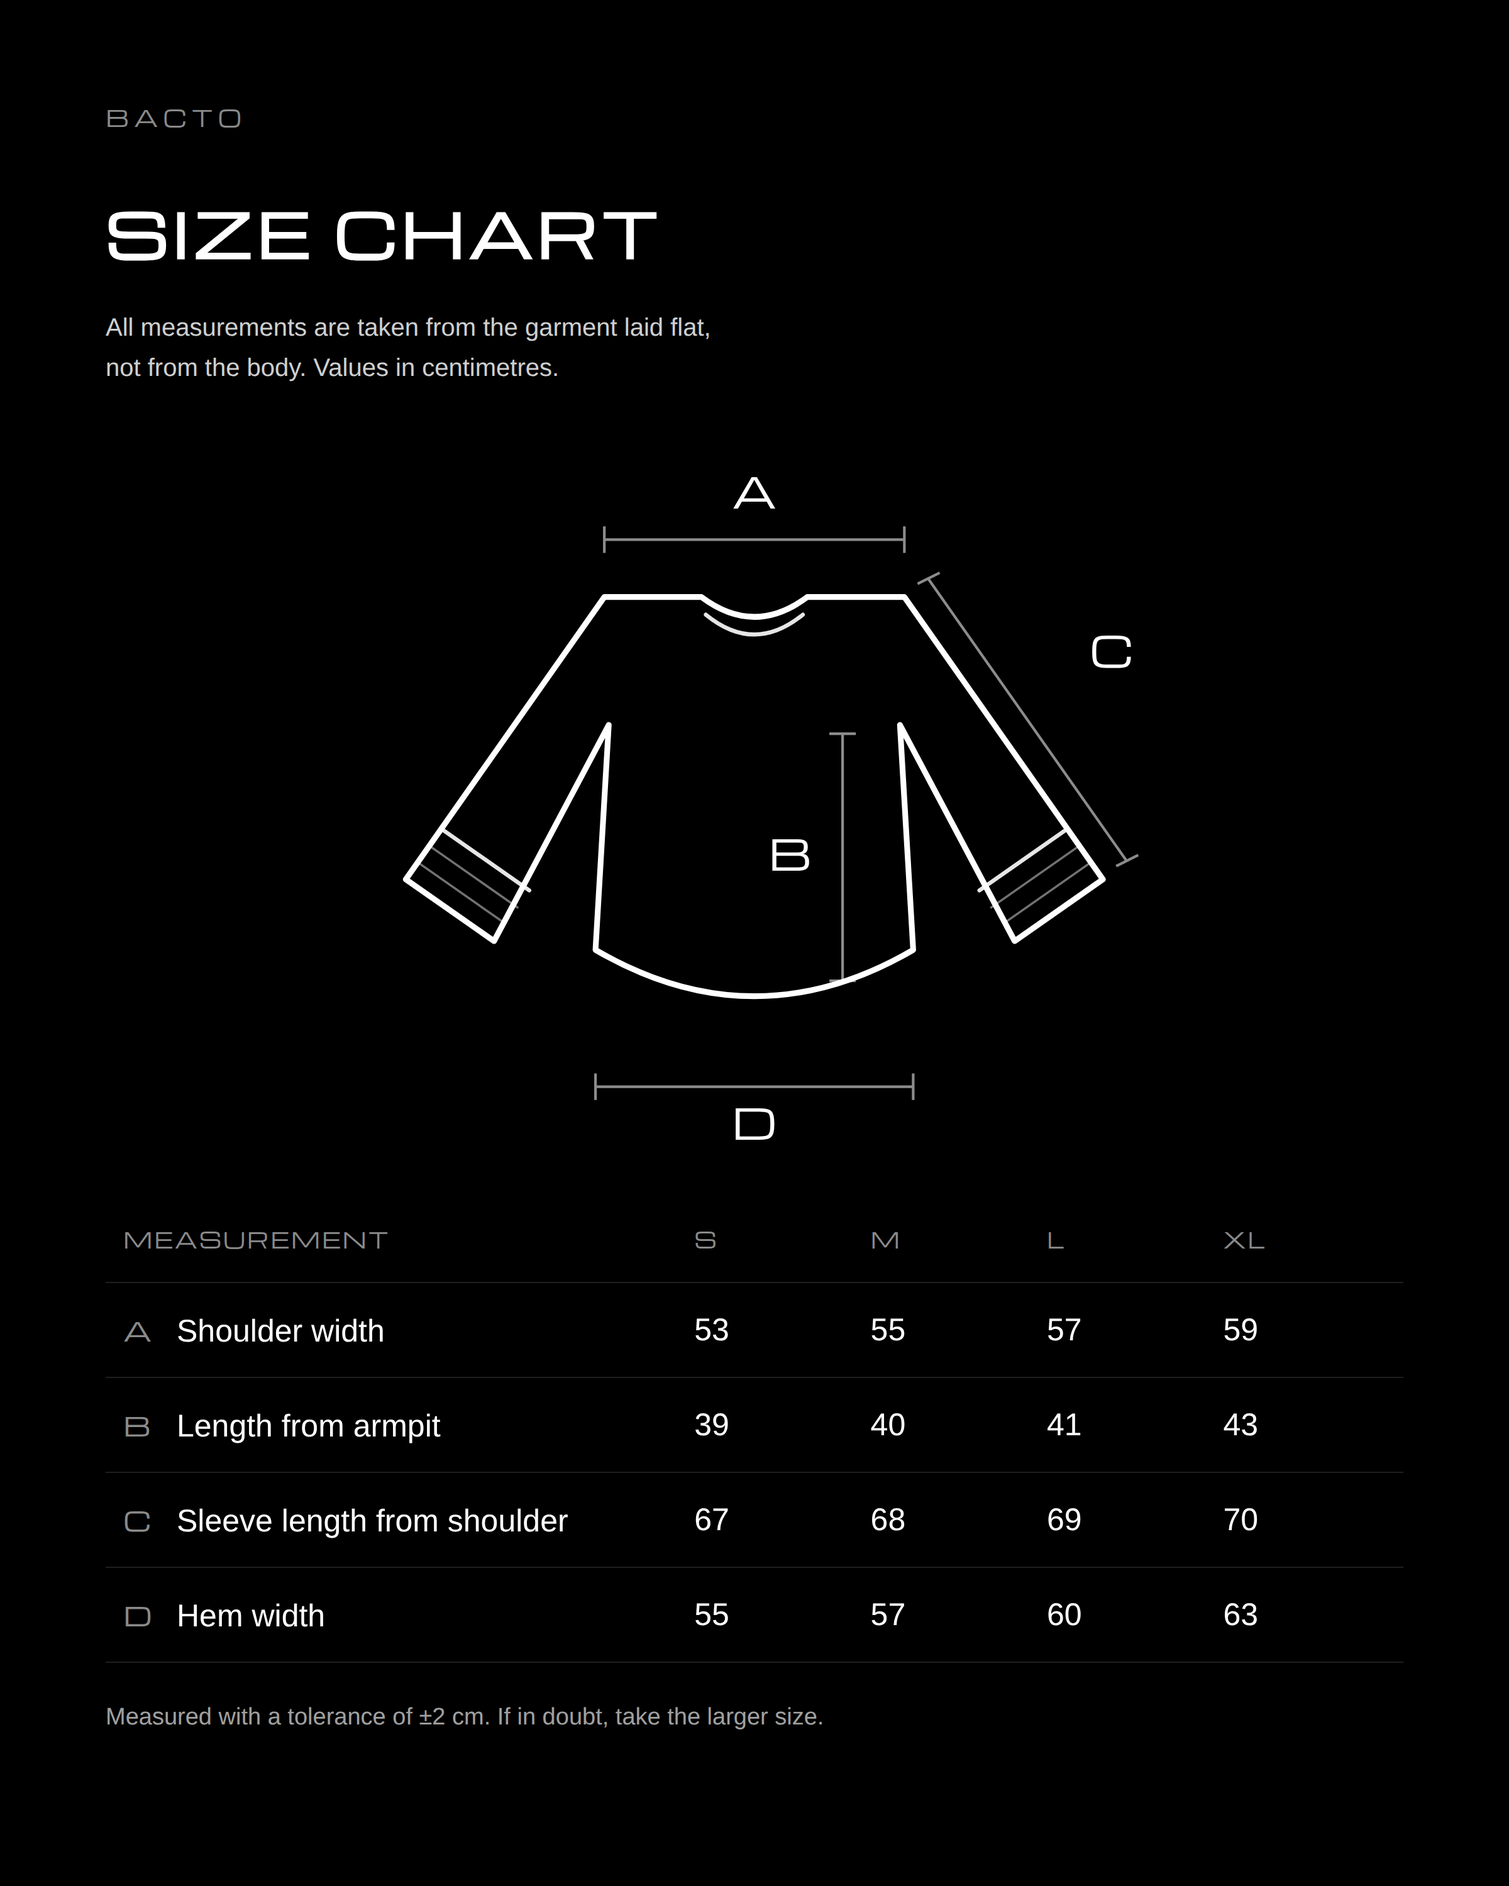
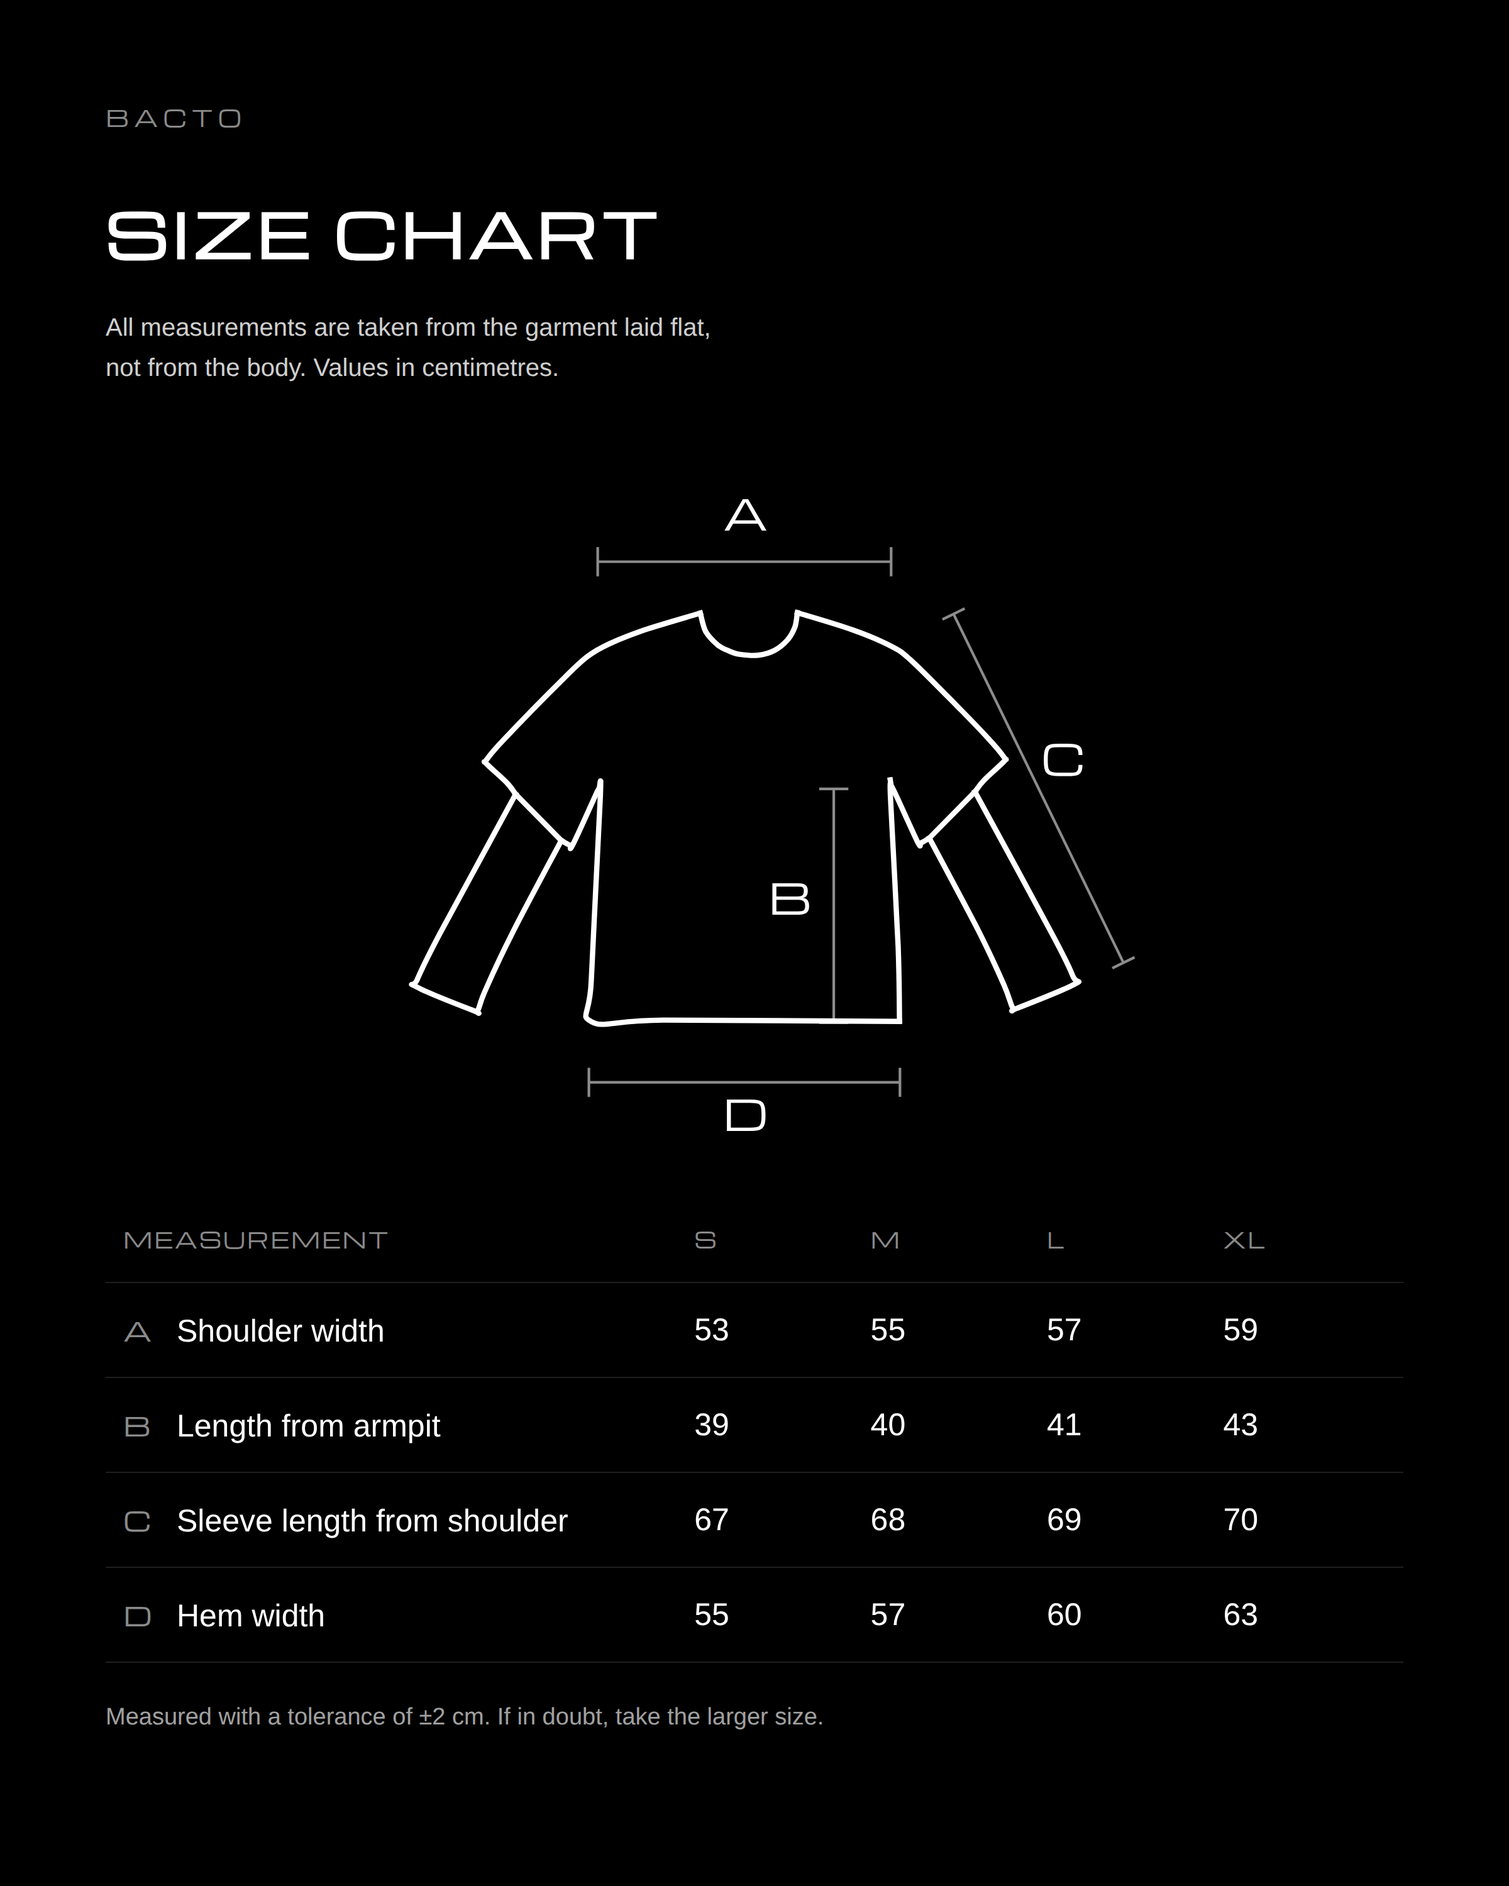
Trace the longsleeve flat off its reference sketch
The jacket was traced from its sketch last round; the longsleeve was still
the older, invented silhouette — a curved hem and ribbed cuffs the actual
garment does not have. Now both flats come from the same place.

The shape is the sketch's: boxy body, straight hem, dropped shoulder, the
sleeve drawn as a second tube emerging under it. Only the stroke is imposed —
one weight, square ends, mitred joins, matching the jacket.

A, B, C and D were re-measured against the traced outline rather than carried
over: A spans the body at the shoulder, B drops from the armpit to the hem,
C runs the sleeve's own axis to the end of the cuff, D spans the hem.

Claude-Session: https://claude.ai/code/session_01GG8okUs1W746EZYFRNPrJ9

Changed region(s): [[0.2812, 0.248, 0.75, 0.62]]

diff --git a/tools/sizechart/longsleeve-wide.html b/tools/sizechart/longsleeve-wide.html
@@ -95,31 +95,33 @@
   <h1>Size chart</h1>
   <p class="intro">All measurements are taken from the garment laid flat, not from the body. Values in centimetres.</p>
   <div class="main"><div style="display:grid;grid-template-columns:34% 1fr;gap:80px;align-items:center"><div><svg viewBox="0 0 400 330" class="figure">
-  <g fill="none" stroke="#fff" stroke-width="2.6" stroke-linejoin="round" stroke-linecap="round">
-    <path d="M132 72 L176 72 Q200 90 224 72 L268 72
-             L358 200 L318 228 L266 130 L272 232
-             Q200 274 128 232 L134 130 L82 228 L42 200 Z"/>
+  <g fill="none" stroke="#fff" stroke-width="2.4"
+     stroke-linecap="square" stroke-linejoin="miter" stroke-miterlimit="4">
+    <path d="M265.8 264.4 C247.9 264.3 182.1 263.8 158.8 263.8 C135.5 263.9 131.6 267.6 126.1 264.5 C120.7 261.5 125.5 262.5 126.1 245.5 C126.8 228.5 129.6 176.6 130.2 162.3 C130.7 148.0 129.7 160.3 129.6 159.9"/>
+    <path d="M279.3 181.3 C283.1 188.4 296.3 213.0 302.0 224.1 C307.6 235.2 310.7 242.3 313.2 248.0 C315.7 253.7 316.1 256.5 317.1 258.3 C318.1 260.0 314.5 260.2 319.2 258.4 C323.8 256.6 340.8 250.0 345.0 247.6 C349.2 245.2 346.1 247.8 344.5 244.1 C342.9 240.4 342.7 239.3 335.3 225.4 C327.9 211.4 305.9 171.2 300.0 160.3"/>
+    <path d="M112.5 182.4 C108.7 189.6 95.5 213.9 89.8 225.4 C84.0 236.8 80.3 245.2 77.8 250.9 C75.3 256.6 75.5 258.1 74.6 259.5 C73.8 261.0 77.3 261.3 72.7 259.5 C68.0 257.7 51.1 251.1 46.8 248.7 C42.6 246.3 45.5 249.4 47.2 245.4 C49.0 241.3 50.1 238.5 57.5 224.5 C65.0 210.5 86.1 172.0 91.8 161.4"/>
+    <path d="M175.5 79.3 C171.3 80.6 156.9 84.7 150.0 87.0 C143.1 89.4 138.4 91.3 134.1 93.3 C129.8 95.3 127.6 96.5 124.2 99.1 C120.8 101.7 120.1 102.5 113.8 108.7 C107.5 114.9 92.4 130.3 86.6 136.5 C80.7 142.7 80.0 143.9 78.6 145.8 C77.3 147.6 77.1 145.9 78.6 147.6 C80.1 149.3 85.5 153.7 87.7 156.1 C89.9 158.4 91.1 160.5 91.8 161.4"/>
+    <path d="M219.5 79.1 C223.6 80.4 237.1 84.2 244.2 86.8 C251.3 89.3 257.8 92.1 262.2 94.4 C266.7 96.7 266.8 97.0 270.9 100.6 C275.0 104.3 281.0 110.4 286.8 116.3 C292.7 122.2 301.6 131.3 306.0 136.1 C310.4 140.8 312.0 142.9 313.2 144.7 C314.4 146.4 314.6 144.9 313.1 146.6 C311.6 148.3 306.2 152.8 304.1 155.1 C301.9 157.4 300.7 159.4 300.0 160.3"/>
+    <path d="M262.2 158.8 C262.1 159.5 261.2 150.9 261.7 162.9 C262.2 174.9 264.5 213.9 265.2 230.8 C265.8 247.7 265.7 258.8 265.8 264.4"/>
+    <path d="M175.5 79.3 C175.9 80.7 176.7 85.2 177.9 87.6 C179.2 90.0 181.5 92.1 183.2 93.6 C184.9 95.0 186.4 95.6 188.1 96.3 C189.8 97.1 191.1 97.7 193.4 98.0 C195.6 98.3 199.1 98.7 201.7 98.4 C204.3 98.1 207.0 97.4 209.2 96.2 C211.4 95.0 213.5 93.2 215.0 91.5 C216.6 89.7 217.6 87.7 218.4 85.6 C219.1 83.6 219.3 80.2 219.5 79.1"/>
+    <path d="M279.3 181.3 C278.7 181.6 276.5 183.2 275.6 183.4 C274.7 183.7 276.0 186.8 273.9 182.9 C271.9 178.9 265.2 163.7 263.2 159.7 C261.3 155.7 262.3 158.9 262.2 158.8"/>
+    <path d="M129.6 159.9 C129.4 160.1 130.6 156.6 128.6 160.6 C126.7 164.7 119.9 180.1 117.8 184.1 C115.7 188.1 117.2 184.8 116.3 184.5 C115.4 184.2 113.2 182.8 112.5 182.4"/>
+    <path d="M300.0 160.3 L279.3 181.3"/>
+    <path d="M91.8 161.4 L112.5 182.4"/>
+    <path d="M129.6 159.9 L130.2 156.1"/>
+    <path d="M261.6 154.9 L262.2 158.8"/>
   </g>
-  <g fill="none" stroke="#fff" stroke-width="1.8" stroke-linecap="round" opacity="0.9">
-    <path d="M178 80 Q200 98 222 80"/>
-    <path d="M342 177 L302 205"/>
-    <path d="M58 177 L98 205"/>
-  </g>
-  <g fill="none" stroke="#fff" stroke-width="1" opacity="0.45">
-    <path d="M347 185 L307 213 M353 192 L313 220"/>
-    <path d="M53 185 L93 213 M47 192 L87 220"/>
-  </g>
-  <g fill="none" stroke="#fff" stroke-width="1.2" opacity="0.55">
-    <path d="M132 46 L268 46 M132 40 L132 52 M268 40 L268 52"/>
-    <path d="M128 294 L272 294 M128 288 L128 300 M272 288 L272 300"/>
-    <path d="M240 134 L240 246 M234 134 L246 134 M234 246 L246 246"/>
-    <path d="M279 64 L369 192 M274 66 L284 61 M364 194 L374 189"/>
+  <g fill="none" stroke="#fff" stroke-width="1.2" stroke-linecap="square" opacity="0.55">
+    <path d="M129 56 L262 56 M129 50 L129 62 M262 50 L262 62"/>
+    <path d="M125 292 L266 292 M125 286 L125 298 M266 286 L266 298"/>
+    <path d="M236 159 L236 265 M230 159 L242 159 M230 265 L242 265"/>
+    <path d="M290.3 79.7 L367.3 237.8 M285.8 81.9 L294.8 77.5 M362.8 240.0 L371.8 235.6"/>
   </g>
   <g fill="#fff" class="figure__letters">
-    <text x="200" y="32"  text-anchor="middle">A</text>
-    <text x="200" y="318" text-anchor="middle">D</text>
-    <text x="226" y="196" text-anchor="end">B</text>
-    <text x="352" y="104" text-anchor="start">C</text>
+    <text x="196" y="42"  text-anchor="middle">A</text>
+    <text x="196" y="314" text-anchor="middle">D</text>
+    <text x="226" y="216" text-anchor="end">B</text>
+    <text x="340" y="153" text-anchor="middle">C</text>
   </g>
 </svg></div><table><thead><tr><th class="measure">Measurement</th><th>S</th><th>M</th><th>L</th><th>XL</th></tr></thead><tbody><tr><th><span class="letter">A</span>Shoulder width</th><td>53</td><td>55</td><td>57</td><td>59</td></tr><tr><th><span class="letter">B</span>Length from armpit</th><td>39</td><td>40</td><td>41</td><td>43</td></tr><tr><th><span class="letter">C</span>Sleeve length from shoulder</th><td>67</td><td>68</td><td>69</td><td>70</td></tr><tr><th><span class="letter">D</span>Hem width</th><td>55</td><td>57</td><td>60</td><td>63</td></tr></tbody></table></div></div>
   <p class="note">Measured with a tolerance of ±2 cm. If in doubt, take the larger size.</p>

diff --git a/tools/sizechart/longsleeve-portrait.html b/tools/sizechart/longsleeve-portrait.html
@@ -95,31 +95,33 @@
   <h1>Size chart</h1>
   <p class="intro">All measurements are taken from the garment laid flat, not from the body. Values in centimetres.</p>
   <div class="main"><div style="width:68%;margin:0 auto 24px"><svg viewBox="0 0 400 330" class="figure">
-  <g fill="none" stroke="#fff" stroke-width="2.6" stroke-linejoin="round" stroke-linecap="round">
-    <path d="M132 72 L176 72 Q200 90 224 72 L268 72
-             L358 200 L318 228 L266 130 L272 232
-             Q200 274 128 232 L134 130 L82 228 L42 200 Z"/>
+  <g fill="none" stroke="#fff" stroke-width="2.4"
+     stroke-linecap="square" stroke-linejoin="miter" stroke-miterlimit="4">
+    <path d="M265.8 264.4 C247.9 264.3 182.1 263.8 158.8 263.8 C135.5 263.9 131.6 267.6 126.1 264.5 C120.7 261.5 125.5 262.5 126.1 245.5 C126.8 228.5 129.6 176.6 130.2 162.3 C130.7 148.0 129.7 160.3 129.6 159.9"/>
+    <path d="M279.3 181.3 C283.1 188.4 296.3 213.0 302.0 224.1 C307.6 235.2 310.7 242.3 313.2 248.0 C315.7 253.7 316.1 256.5 317.1 258.3 C318.1 260.0 314.5 260.2 319.2 258.4 C323.8 256.6 340.8 250.0 345.0 247.6 C349.2 245.2 346.1 247.8 344.5 244.1 C342.9 240.4 342.7 239.3 335.3 225.4 C327.9 211.4 305.9 171.2 300.0 160.3"/>
+    <path d="M112.5 182.4 C108.7 189.6 95.5 213.9 89.8 225.4 C84.0 236.8 80.3 245.2 77.8 250.9 C75.3 256.6 75.5 258.1 74.6 259.5 C73.8 261.0 77.3 261.3 72.7 259.5 C68.0 257.7 51.1 251.1 46.8 248.7 C42.6 246.3 45.5 249.4 47.2 245.4 C49.0 241.3 50.1 238.5 57.5 224.5 C65.0 210.5 86.1 172.0 91.8 161.4"/>
+    <path d="M175.5 79.3 C171.3 80.6 156.9 84.7 150.0 87.0 C143.1 89.4 138.4 91.3 134.1 93.3 C129.8 95.3 127.6 96.5 124.2 99.1 C120.8 101.7 120.1 102.5 113.8 108.7 C107.5 114.9 92.4 130.3 86.6 136.5 C80.7 142.7 80.0 143.9 78.6 145.8 C77.3 147.6 77.1 145.9 78.6 147.6 C80.1 149.3 85.5 153.7 87.7 156.1 C89.9 158.4 91.1 160.5 91.8 161.4"/>
+    <path d="M219.5 79.1 C223.6 80.4 237.1 84.2 244.2 86.8 C251.3 89.3 257.8 92.1 262.2 94.4 C266.7 96.7 266.8 97.0 270.9 100.6 C275.0 104.3 281.0 110.4 286.8 116.3 C292.7 122.2 301.6 131.3 306.0 136.1 C310.4 140.8 312.0 142.9 313.2 144.7 C314.4 146.4 314.6 144.9 313.1 146.6 C311.6 148.3 306.2 152.8 304.1 155.1 C301.9 157.4 300.7 159.4 300.0 160.3"/>
+    <path d="M262.2 158.8 C262.1 159.5 261.2 150.9 261.7 162.9 C262.2 174.9 264.5 213.9 265.2 230.8 C265.8 247.7 265.7 258.8 265.8 264.4"/>
+    <path d="M175.5 79.3 C175.9 80.7 176.7 85.2 177.9 87.6 C179.2 90.0 181.5 92.1 183.2 93.6 C184.9 95.0 186.4 95.6 188.1 96.3 C189.8 97.1 191.1 97.7 193.4 98.0 C195.6 98.3 199.1 98.7 201.7 98.4 C204.3 98.1 207.0 97.4 209.2 96.2 C211.4 95.0 213.5 93.2 215.0 91.5 C216.6 89.7 217.6 87.7 218.4 85.6 C219.1 83.6 219.3 80.2 219.5 79.1"/>
+    <path d="M279.3 181.3 C278.7 181.6 276.5 183.2 275.6 183.4 C274.7 183.7 276.0 186.8 273.9 182.9 C271.9 178.9 265.2 163.7 263.2 159.7 C261.3 155.7 262.3 158.9 262.2 158.8"/>
+    <path d="M129.6 159.9 C129.4 160.1 130.6 156.6 128.6 160.6 C126.7 164.7 119.9 180.1 117.8 184.1 C115.7 188.1 117.2 184.8 116.3 184.5 C115.4 184.2 113.2 182.8 112.5 182.4"/>
+    <path d="M300.0 160.3 L279.3 181.3"/>
+    <path d="M91.8 161.4 L112.5 182.4"/>
+    <path d="M129.6 159.9 L130.2 156.1"/>
+    <path d="M261.6 154.9 L262.2 158.8"/>
   </g>
-  <g fill="none" stroke="#fff" stroke-width="1.8" stroke-linecap="round" opacity="0.9">
-    <path d="M178 80 Q200 98 222 80"/>
-    <path d="M342 177 L302 205"/>
-    <path d="M58 177 L98 205"/>
-  </g>
-  <g fill="none" stroke="#fff" stroke-width="1" opacity="0.45">
-    <path d="M347 185 L307 213 M353 192 L313 220"/>
-    <path d="M53 185 L93 213 M47 192 L87 220"/>
-  </g>
-  <g fill="none" stroke="#fff" stroke-width="1.2" opacity="0.55">
-    <path d="M132 46 L268 46 M132 40 L132 52 M268 40 L268 52"/>
-    <path d="M128 294 L272 294 M128 288 L128 300 M272 288 L272 300"/>
-    <path d="M240 134 L240 246 M234 134 L246 134 M234 246 L246 246"/>
-    <path d="M279 64 L369 192 M274 66 L284 61 M364 194 L374 189"/>
+  <g fill="none" stroke="#fff" stroke-width="1.2" stroke-linecap="square" opacity="0.55">
+    <path d="M129 56 L262 56 M129 50 L129 62 M262 50 L262 62"/>
+    <path d="M125 292 L266 292 M125 286 L125 298 M266 286 L266 298"/>
+    <path d="M236 159 L236 265 M230 159 L242 159 M230 265 L242 265"/>
+    <path d="M290.3 79.7 L367.3 237.8 M285.8 81.9 L294.8 77.5 M362.8 240.0 L371.8 235.6"/>
   </g>
   <g fill="#fff" class="figure__letters">
-    <text x="200" y="32"  text-anchor="middle">A</text>
-    <text x="200" y="318" text-anchor="middle">D</text>
-    <text x="226" y="196" text-anchor="end">B</text>
-    <text x="352" y="104" text-anchor="start">C</text>
+    <text x="196" y="42"  text-anchor="middle">A</text>
+    <text x="196" y="314" text-anchor="middle">D</text>
+    <text x="226" y="216" text-anchor="end">B</text>
+    <text x="340" y="153" text-anchor="middle">C</text>
   </g>
 </svg></div><table><thead><tr><th class="measure">Measurement</th><th>S</th><th>M</th><th>L</th><th>XL</th></tr></thead><tbody><tr><th><span class="letter">A</span>Shoulder width</th><td>53</td><td>55</td><td>57</td><td>59</td></tr><tr><th><span class="letter">B</span>Length from armpit</th><td>39</td><td>40</td><td>41</td><td>43</td></tr><tr><th><span class="letter">C</span>Sleeve length from shoulder</th><td>67</td><td>68</td><td>69</td><td>70</td></tr><tr><th><span class="letter">D</span>Hem width</th><td>55</td><td>57</td><td>60</td><td>63</td></tr></tbody></table></div>
   <p class="note">Measured with a tolerance of ±2 cm. If in doubt, take the larger size.</p>

diff --git a/tools/sizechart/build.py b/tools/sizechart/build.py
@@ -18,34 +18,39 @@ THEME = HERE.parent.parent
 
 FONT = base64.b64encode((THEME / 'assets' / 'michroma-latin.woff2').read_bytes()).decode()
 
-# Long-sleeve top: curved hem, wide ribbed cuffs, dropped shoulders.
+# Long-sleeve top: boxy body, straight hem, dropped shoulders, the sleeve
+# drawn as a second tube under the shoulder. Traced off the reference sketch
+# the same way as the jacket, so the form is the sketch's; only the stroke is
+# imposed — one weight, square ends.
 FIGURE_LONGSLEEVE = """
 <svg viewBox="0 0 400 330" class="figure">
-  <g fill="none" stroke="#fff" stroke-width="2.6" stroke-linejoin="round" stroke-linecap="round">
-    <path d="M132 72 L176 72 Q200 90 224 72 L268 72
-             L358 200 L318 228 L266 130 L272 232
-             Q200 274 128 232 L134 130 L82 228 L42 200 Z"/>
+  <g fill="none" stroke="#fff" stroke-width="2.4"
+     stroke-linecap="square" stroke-linejoin="miter" stroke-miterlimit="4">
+    <path d="M265.8 264.4 C247.9 264.3 182.1 263.8 158.8 263.8 C135.5 263.9 131.6 267.6 126.1 264.5 C120.7 261.5 125.5 262.5 126.1 245.5 C126.8 228.5 129.6 176.6 130.2 162.3 C130.7 148.0 129.7 160.3 129.6 159.9"/>
+    <path d="M279.3 181.3 C283.1 188.4 296.3 213.0 302.0 224.1 C307.6 235.2 310.7 242.3 313.2 248.0 C315.7 253.7 316.1 256.5 317.1 258.3 C318.1 260.0 314.5 260.2 319.2 258.4 C323.8 256.6 340.8 250.0 345.0 247.6 C349.2 245.2 346.1 247.8 344.5 244.1 C342.9 240.4 342.7 239.3 335.3 225.4 C327.9 211.4 305.9 171.2 300.0 160.3"/>
+    <path d="M112.5 182.4 C108.7 189.6 95.5 213.9 89.8 225.4 C84.0 236.8 80.3 245.2 77.8 250.9 C75.3 256.6 75.5 258.1 74.6 259.5 C73.8 261.0 77.3 261.3 72.7 259.5 C68.0 257.7 51.1 251.1 46.8 248.7 C42.6 246.3 45.5 249.4 47.2 245.4 C49.0 241.3 50.1 238.5 57.5 224.5 C65.0 210.5 86.1 172.0 91.8 161.4"/>
+    <path d="M175.5 79.3 C171.3 80.6 156.9 84.7 150.0 87.0 C143.1 89.4 138.4 91.3 134.1 93.3 C129.8 95.3 127.6 96.5 124.2 99.1 C120.8 101.7 120.1 102.5 113.8 108.7 C107.5 114.9 92.4 130.3 86.6 136.5 C80.7 142.7 80.0 143.9 78.6 145.8 C77.3 147.6 77.1 145.9 78.6 147.6 C80.1 149.3 85.5 153.7 87.7 156.1 C89.9 158.4 91.1 160.5 91.8 161.4"/>
+    <path d="M219.5 79.1 C223.6 80.4 237.1 84.2 244.2 86.8 C251.3 89.3 257.8 92.1 262.2 94.4 C266.7 96.7 266.8 97.0 270.9 100.6 C275.0 104.3 281.0 110.4 286.8 116.3 C292.7 122.2 301.6 131.3 306.0 136.1 C310.4 140.8 312.0 142.9 313.2 144.7 C314.4 146.4 314.6 144.9 313.1 146.6 C311.6 148.3 306.2 152.8 304.1 155.1 C301.9 157.4 300.7 159.4 300.0 160.3"/>
+    <path d="M262.2 158.8 C262.1 159.5 261.2 150.9 261.7 162.9 C262.2 174.9 264.5 213.9 265.2 230.8 C265.8 247.7 265.7 258.8 265.8 264.4"/>
+    <path d="M175.5 79.3 C175.9 80.7 176.7 85.2 177.9 87.6 C179.2 90.0 181.5 92.1 183.2 93.6 C184.9 95.0 186.4 95.6 188.1 96.3 C189.8 97.1 191.1 97.7 193.4 98.0 C195.6 98.3 199.1 98.7 201.7 98.4 C204.3 98.1 207.0 97.4 209.2 96.2 C211.4 95.0 213.5 93.2 215.0 91.5 C216.6 89.7 217.6 87.7 218.4 85.6 C219.1 83.6 219.3 80.2 219.5 79.1"/>
+    <path d="M279.3 181.3 C278.7 181.6 276.5 183.2 275.6 183.4 C274.7 183.7 276.0 186.8 273.9 182.9 C271.9 178.9 265.2 163.7 263.2 159.7 C261.3 155.7 262.3 158.9 262.2 158.8"/>
+    <path d="M129.6 159.9 C129.4 160.1 130.6 156.6 128.6 160.6 C126.7 164.7 119.9 180.1 117.8 184.1 C115.7 188.1 117.2 184.8 116.3 184.5 C115.4 184.2 113.2 182.8 112.5 182.4"/>
+    <path d="M300.0 160.3 L279.3 181.3"/>
+    <path d="M91.8 161.4 L112.5 182.4"/>
+    <path d="M129.6 159.9 L130.2 156.1"/>
+    <path d="M261.6 154.9 L262.2 158.8"/>
   </g>
-  <g fill="none" stroke="#fff" stroke-width="1.8" stroke-linecap="round" opacity="0.9">
-    <path d="M178 80 Q200 98 222 80"/>
-    <path d="M342 177 L302 205"/>
-    <path d="M58 177 L98 205"/>
-  </g>
-  <g fill="none" stroke="#fff" stroke-width="1" opacity="0.45">
-    <path d="M347 185 L307 213 M353 192 L313 220"/>
-    <path d="M53 185 L93 213 M47 192 L87 220"/>
-  </g>
-  <g fill="none" stroke="#fff" stroke-width="1.2" opacity="0.55">
-    <path d="M132 46 L268 46 M132 40 L132 52 M268 40 L268 52"/>
-    <path d="M128 294 L272 294 M128 288 L128 300 M272 288 L272 300"/>
-    <path d="M240 134 L240 246 M234 134 L246 134 M234 246 L246 246"/>
-    <path d="M279 64 L369 192 M274 66 L284 61 M364 194 L374 189"/>
+  <g fill="none" stroke="#fff" stroke-width="1.2" stroke-linecap="square" opacity="0.55">
+    <path d="M129 56 L262 56 M129 50 L129 62 M262 50 L262 62"/>
+    <path d="M125 292 L266 292 M125 286 L125 298 M266 286 L266 298"/>
+    <path d="M236 159 L236 265 M230 159 L242 159 M230 265 L242 265"/>
+    <path d="M290.3 79.7 L367.3 237.8 M285.8 81.9 L294.8 77.5 M362.8 240.0 L371.8 235.6"/>
   </g>
   <g fill="#fff" class="figure__letters">
-    <text x="200" y="32"  text-anchor="middle">A</text>
-    <text x="200" y="318" text-anchor="middle">D</text>
-    <text x="226" y="196" text-anchor="end">B</text>
-    <text x="352" y="104" text-anchor="start">C</text>
+    <text x="196" y="42"  text-anchor="middle">A</text>
+    <text x="196" y="314" text-anchor="middle">D</text>
+    <text x="226" y="216" text-anchor="end">B</text>
+    <text x="340" y="153" text-anchor="middle">C</text>
   </g>
 </svg>
 """
